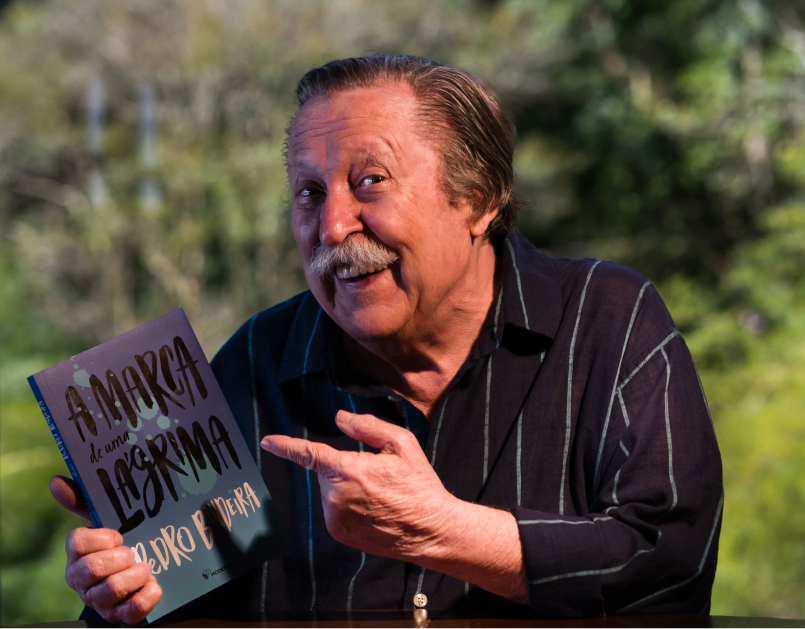
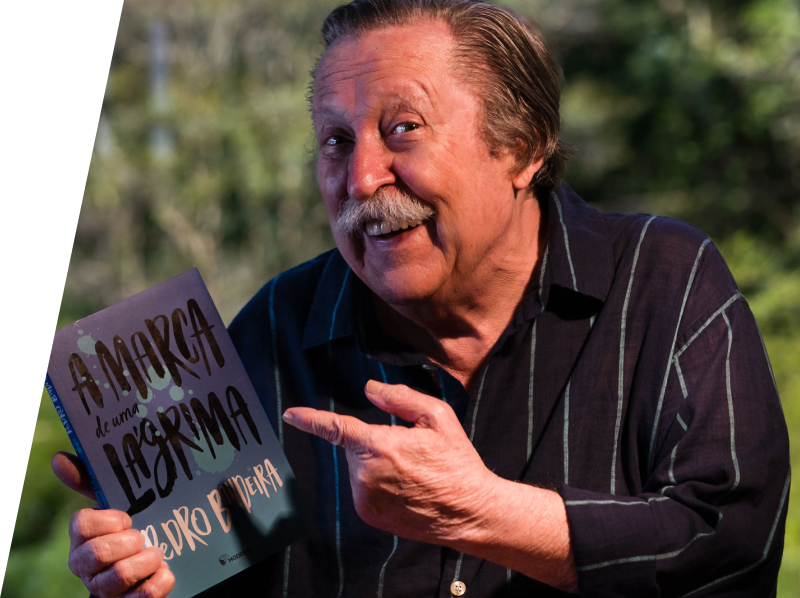
Ajustes na paginas biografia e livros

diff --git a/wp-content/themes/pbandeira/style.css b/wp-content/themes/pbandeira/style.css
@@ -13,12 +13,27 @@ Version: 1.0
 
 :root {
     --azul-claro: #33CCFF;
+    --azul-escuro: #336699;
     --amarelo: #FFFF00;
     --laranja: #FF9933;
 }
 
+html, body {
+    width: 100%;
+    max-width: 100%;
+    overflow-x: hidden;
+    scroll-behavior: smooth;
+}
+
 body {
     font-family: 'Fira Sans', sans-serif;
+}
+
+h2 {
+    font-weight: 800;
+    font-size: 44px;
+    color: var(--azul-escuro);
+    margin-bottom: 40px;
 }
 
 
@@ -70,6 +85,7 @@ img {
 p {
     font-size: 20px;
     line-height: 36px;
+    margin-bottom: 30px;
 }
 
 section .container {
@@ -163,4 +179,30 @@ strong {
 
 .sec-livros.videos .container {
     display: block;
+}
+
+nav li a img {
+    max-width: 260px;
+    height: auto;
+}
+
+.topo {
+    position: fixed;
+    top: 0;
+    background: #fff;
+    width: 100%;
+    display: block;
+}
+
+main {
+    margin-top: 228px;
+}
+
+.biografia article a {
+    color: #000;
+    font-weight: 500;
+    text-decoration: none;
+    display: inline-block;
+    padding: 10px 20px;
+    width: 100%;
 }

diff --git a/wp-content/themes/pbandeira/page-biografia.php b/wp-content/themes/pbandeira/page-biografia.php
@@ -2,12 +2,10 @@
         <main>
             <section class="content">
                 <div class="container">
-                    <div class="cap">
-                        <p>P</p>
-                    </div>
                     <article>
+                        <h2>QUEM É O PEDRO</h2>
                         <p>
-                            edro Bandeira nasceu em Santos, SP, em 9 de março de 1942, e vive em São Paulo, desde 1961, quando ingressou na Universidade de São Paulo para cursar Ciências Sociais. Desde 1962, suas principais atividades profissionais foram a de jornalista e editor, logo seguidas pela de publicitário, como redator, diretor de criação e diretor de marketing. Paralelamente, de 1962 a 1967, fez também teatro profissional como ator e diretor, e deu aulas de Literatura Brasileira e Portuguesa para o Ensino Médio e para cursos pré-vestibular. Trabalhou também em televisão em 1963 como apresentador de programas para a juventude e, de 1969 a 1984, protagonizou dezenas de comerciais para televisão.
+                            Pedro Bandeira nasceu em Santos, SP, em 9 de março de 1942, e vive em São Paulo, desde 1961, quando ingressou na Universidade de São Paulo para cursar Ciências Sociais. Desde 1962, suas principais atividades profissionais foram a de jornalista e editor, logo seguidas pela de publicitário, como redator, diretor de criação e diretor de marketing. Paralelamente, de 1962 a 1967, fez também teatro profissional como ator e diretor, e deu aulas de Literatura Brasileira e Portuguesa para o Ensino Médio e para cursos pré-vestibular. Trabalhou também em televisão em 1963 como apresentador de programas para a juventude e, de 1969 a 1984, protagonizou dezenas de comerciais para televisão.
                         </p>
                         <p>
                             A partir de 1972 começou a escrever histórias para crianças a serem publicadas em revistas de banca pelas editoras Abril, Saraiva e Rio Gráfica, até que, desde 1983, com a publicação de sua primeira história em formato de livro (“O dinossauro que fazia au-au”, pela Editora Moderna), passou a dedicar-se exclusivamente à criação de livros infantis e juvenis.
@@ -22,13 +20,11 @@
                         </p>
                         <p>
                             Se ainda quiser saber mais sobre mim, dê uma olhada nos seguintes links:
-                            Como a Editora Moderna me apresenta: https://www.moderna.com.br/autoresexclusivos/pedro-bandeira/pedro-bandeira-biografia.htm
-                            O que dizem de mim na Wikipedia: https://pt.wikipedia.org/wiki/Pedro_Bandeira
                         </p>
-                        <p>
-                            Uma conversa muito bacana que tive com o pessoal do Museu da Pessoa: https://acervo.museudapessoa.org/pt/conteudo/pessoa/pedro-bandeira-22453
-                            Essa entrevista que está na Enciclopédia Itaú Cultural: https://enciclopedia.itaucultural.org.br/pessoa7372/pedro-bandeira
-                        </p>
+                        <p><a href="https://www.moderna.com.br/autoresexclusivos/pedro-bandeira/pedro-bandeira-biografia.htm" target="_blank" style="background:url(<?php echo get_template_directory_uri() ?>/img/bg-link-1.png)">Como a Editora Moderna me apresenta</a></p>
+                        <p><a href="https://pt.wikipedia.org/wiki/Pedro_Bandeira" target="_blank" style="background:url(<?php echo get_template_directory_uri() ?>/img/bg-link-2.png)">O que dizem de mim na Wikipedia</a></p>
+                        <p><a href="https://acervo.museudapessoa.org/pt/conteudo/pessoa/pedro-bandeira-22453" target="_blank" style="background:url(<?php echo get_template_directory_uri() ?>/img/bg-link-3.png)">Uma conversa muito bacana que tive com o pessoal do Museu da Pessoa</a></p>
+                        <p><a href="https://enciclopedia.itaucultural.org.br/pessoa7372/pedro-bandeira" target="_blank" style="background:url(<?php echo get_template_directory_uri() ?>/img/bg-link-4.png)">Essa entrevista que está na Enciclopédia Itaú Cultural</a></p>
                     </article>
                     <aside>
                         <img src="<?php echo get_template_directory_uri() ?>/img/PEDRO-BANDEIRA-34.png" alt="">

diff --git a/wp-content/themes/pbandeira/page-home.php b/wp-content/themes/pbandeira/page-home.php
@@ -1,8 +1,20 @@
 <?php get_header(); ?>    
     <main>
         <section class="banner-principal">
-            <div class="container-full">
-                <img src="<?php echo get_template_directory_uri() ?>/img/banner.png" alt="Banner principal">
+            <div class="container-fluid" style="padding:0">
+                <div class="row">
+                    <div class="col-4" style="background:url(<?php echo get_template_directory_uri(); ?>/img/image-1.png);background-size: cover;background-position-x: right;">
+                        <!-- <img src="<?php echo get_template_directory_uri(); ?>/img/image-1.png" alt=""> -->
+                    </div>
+                    <div class="col-4" style="padding: 45px 20px 0;">
+                        <h2>OLÁ, PESSOAL!</h2>
+                        <p>Nesse meu site eu reuni um bocado de coisas que as pessoas costumam querer saber sobre mim e que me faz sentir mais próximo de vocês. Como sabem, acredito que a Literatura pode ter um papel determinante para o desenvolvimento do nosso País, para que possamos ser aquilo que sonhamos e que merecemos como sociedade. Eu amo o Brasil, amo a Literatura e, mais que tudo, amo os professores que são os meus heróis, minhas heroínas! Venha para a Esperança do Pedro Bandeira! Aqui a gente pensa, sonha e conversa sobre aquilo que faz palpitar nossos corações.</p>
+                        <p>Aquele abraço e uma beijoca do seu amigo, Pedro Bandeira.”</p>
+                    </div>
+                    <div class="col-4" style="background:url(<?php echo get_template_directory_uri(); ?>/img/image-2.png);background-size: cover;background-position-x: left;">
+                        <!-- <img src="<?php echo get_template_directory_uri(); ?>/img/image-2.png" alt=""> -->
+                    </div>
+                </div>
             </div>
         </section>   
     </main>

diff --git a/wp-content/themes/pbandeira/header.php b/wp-content/themes/pbandeira/header.php
@@ -16,20 +16,22 @@
 <body>
 <?php endif; ?>
     <header>
-        <div class="container">
+        <div class="topo">
             <nav>
                 <ul>
                     <li><a href="<?php echo get_home_url(); ?>/biografia">biografia</a></li>
                     <li><a href="<?php echo get_home_url(); ?>/fotos">fotos</a></li>
                     <li><a href="<?php echo get_home_url(); ?>/livros">livros</a></li>
-                    <li><a href="<?php echo get_home_url(); ?>"><img src="<?php echo get_template_directory_uri() ?>/img/logo-topo.png" alt="logo"></a></li>
                     <li><a href="<?php echo get_home_url(); ?>/videos">vídeos</a></li>
+                    <li><a href="<?php echo get_home_url(); ?>"><img src="<?php echo get_template_directory_uri() ?>/img/logo-topo.png" alt="logo"></a></li> 
                     <li><a href="<?php echo get_home_url(); ?>/direitos-autorais">direitos autorais</a></li>
                     <li><a href="<?php echo get_home_url(); ?>/contato">contato</a></li>
+                    <li><a href="https://www.facebook.com/pedrobandeira.oficial" target="_blank"><img src="<?php echo get_template_directory_uri() ?>/img/facebook-icon.png" alt="logo"></a></li> 
+                    <li><a href="https://www.instagram.com/eupedrobandeira/ " target="_blank"><img src="<?php echo get_template_directory_uri() ?>/img/insta-icon.png" alt="logo"></a></li> 
+                    <li><a href="https://www.youtube.com/pedrobandeiraescritor" target="_blank"><img src="<?php echo get_template_directory_uri() ?>/img/youtube-icon.png" alt="logo"></a></li> 
                 </ul>
             </nav>
-        </div>
-        <div class="container-full">
             <hr class="hr-site">
         </div>
+        
     </header>

diff --git a/wp-content/themes/pbandeira/page-livros.php b/wp-content/themes/pbandeira/page-livros.php
@@ -2,11 +2,9 @@
 <main>
     <section class="content">
         <div class="container">
-            <div class="cap">
-                <p>N</p>
-            </div>
             <article>
-                <p>a minha carreira de escritor para crianças e adolescentes, há mais de 40 anos produzi e publiquei muuuitos livros que, você pode conhecer aqui. Cada livrinho destes tem um pedacinho de mim, alguma história que ouvi contarem, vi acontecer ou que imaginei, recombinando tudo o que já li e vivi.</p>
+                <h2>BIBLIOGRAFIA</h2>
+                <p>Na minha carreira de escritor para crianças e adolescentes, há mais de 40 anos produzi e publiquei muuuitos livros que, você pode conhecer aqui. Cada livrinho destes tem um pedacinho de mim, alguma história que ouvi contarem, vi acontecer ou que imaginei, recombinando tudo o que já li e vivi.</p>
                 <p>Para encontrar qualquer um desses livros, recomendo que procure na biblioteca da sua escola ou do seu bairro, vá até a sua livraria preferida para um passeio naquele mundo fantástico ou compre pela internet, se preferir.</p>
             </article>
             <aside>

diff --git a/wp-content/themes/pbandeira/footer.php b/wp-content/themes/pbandeira/footer.php
@@ -1,5 +1,5 @@
     <footer>
-        <div class="container-full">
+        <!-- <div class="container-full">
             <div class="container-redes">
                 <nav>
                     <ul>
@@ -10,7 +10,7 @@
                     </ul>
                 </nav>
             </div>
-        </div>
+        </div> -->
     </footer>
     <?php wp_footer(); ?>
 </body>
